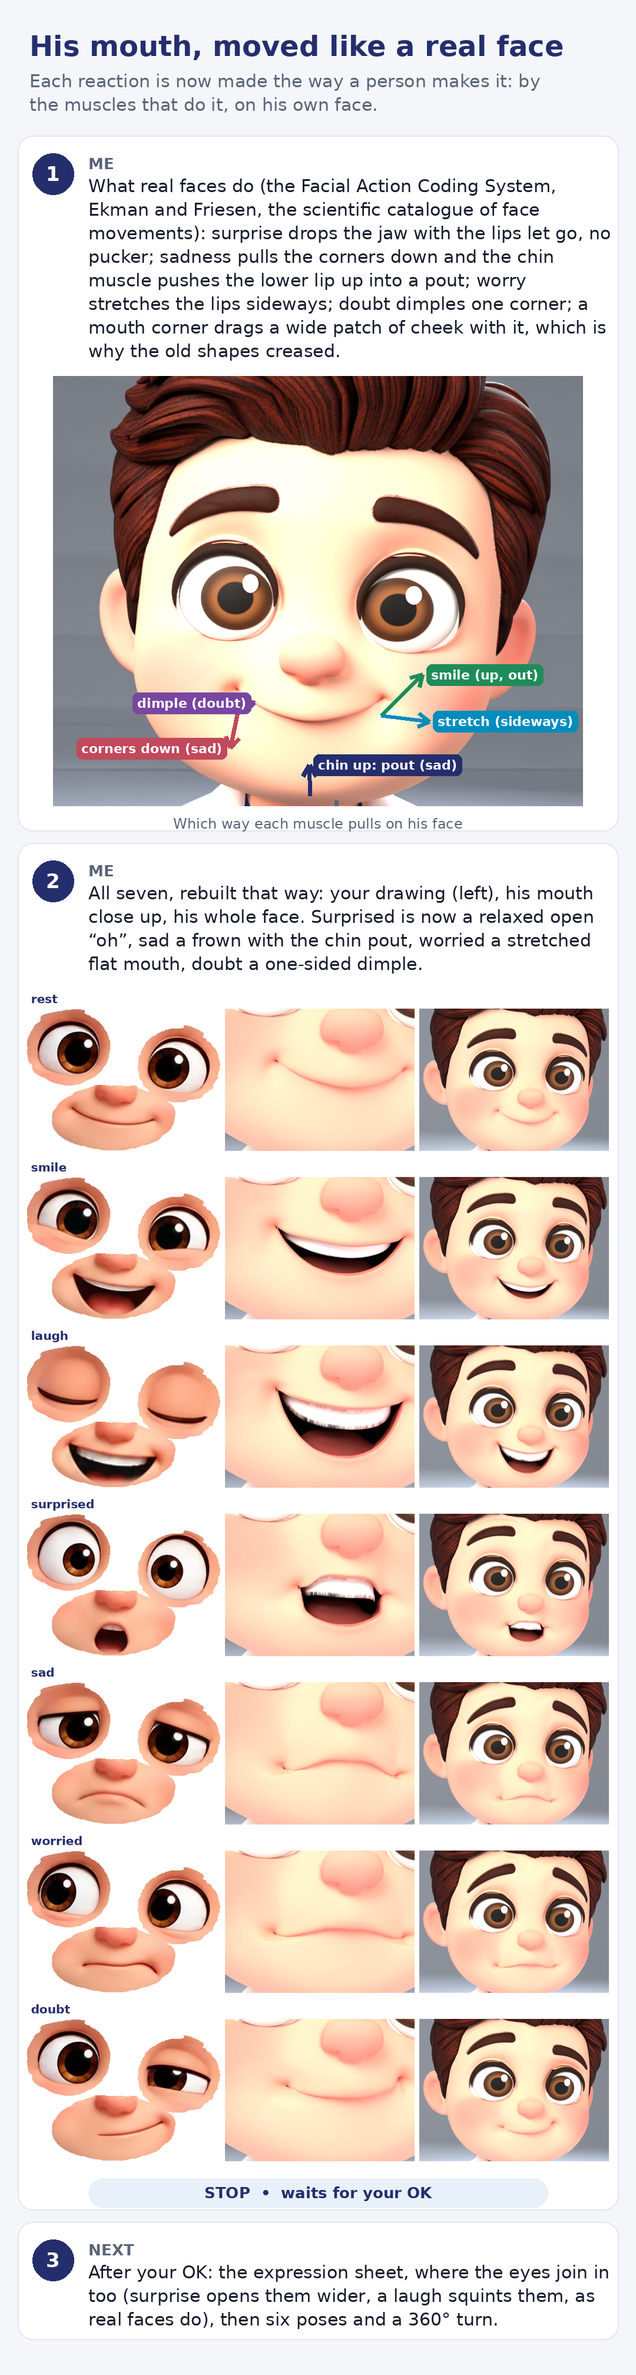
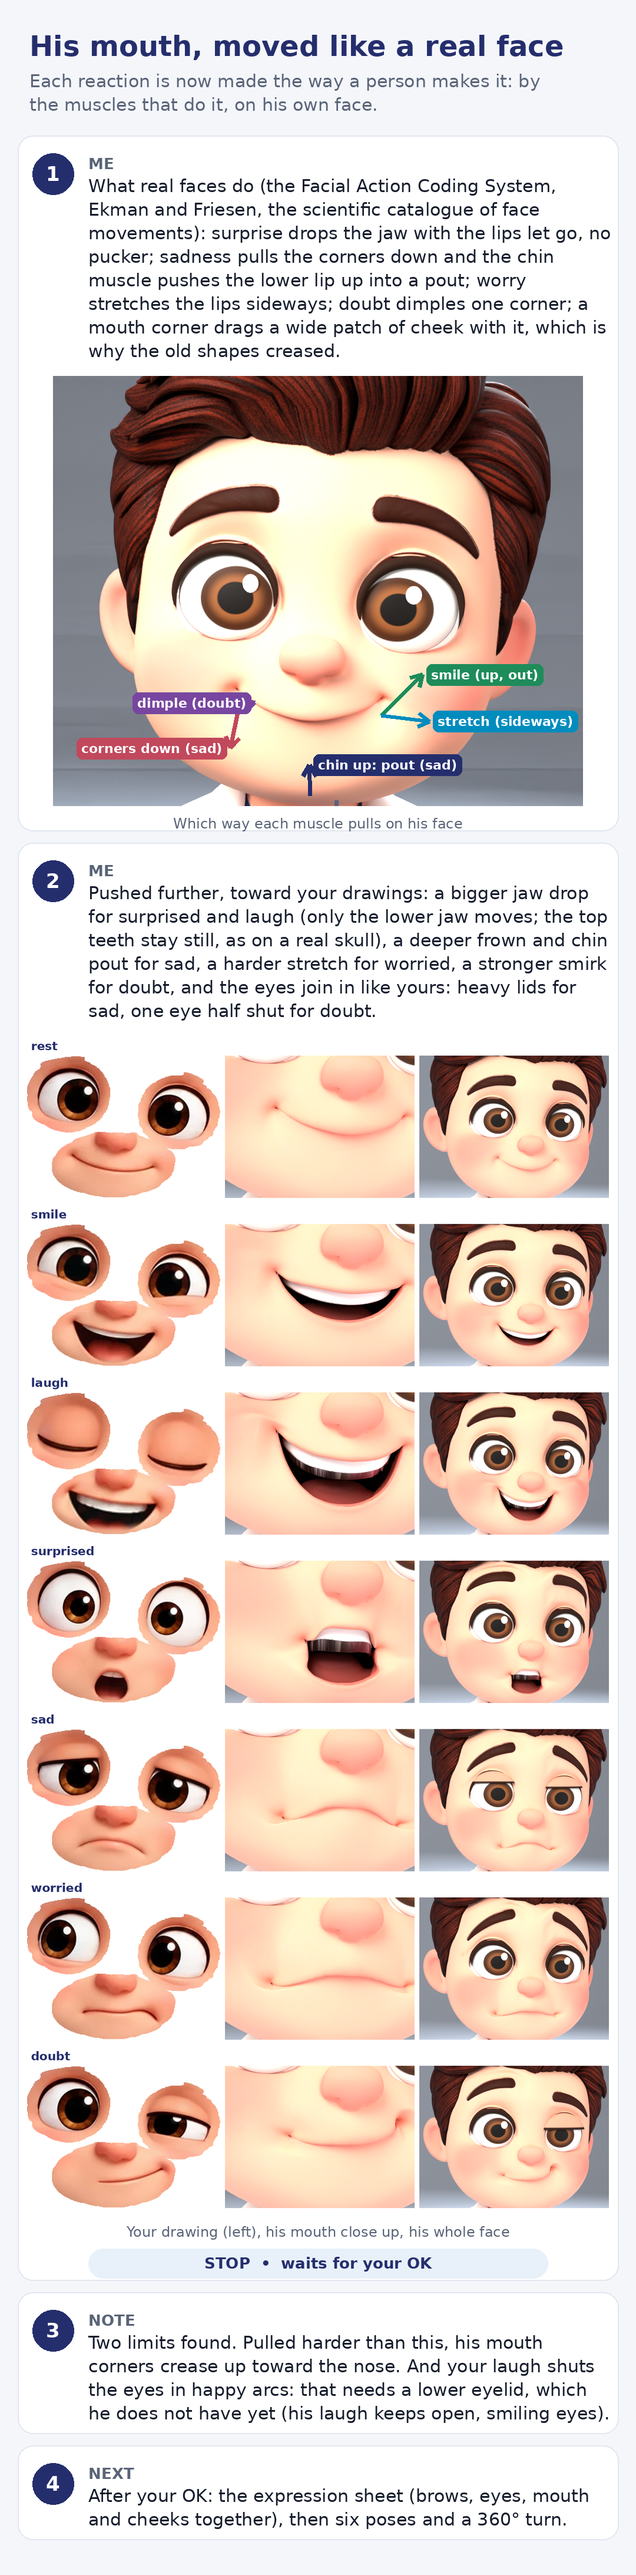
3D Dr. Smiley: mouths pushed further, eyes joining in
Stronger recipes toward Jose's drawings: a bigger lower-jaw drop with the
upper lip and top teeth still, deeper frown and chin pout, harder stretch,
stronger smirk; heavy lids for sad and one half-shut eye for doubt. The top
teeth no longer streak when the jaw opens. out/plan-mouths.png, waiting on
Jose's OK. Docs only, no app change, so no User Guide change.

Claude-Session: https://claude.ai/code/session_011askx983Tm1ZdoDUiZZ1Y5

diff --git a/docs/mockups/smiley-3d/tripo_mouths.py b/docs/mockups/smiley-3d/tripo_mouths.py
@@ -23,18 +23,23 @@ TMP = os.path.join(HERE, 'in', 'faceplan')
 # his left brow, your right, goes a fifth further: DR_BROW_SIDE)
 MOUTHS = {
     'rest':      dict(close=1),
-    'smile':     dict(close=0, cheek=(.6, .6), brow=((2, 0), (2.4, 0))),
-    'laugh':     dict(close=0, mouth={'JawOpen': 1, 'CornerUp.L': .6, 'CornerUp.R': .6}, cheek=(1, 1), brow=((2.8, 0), (3.4, 0))),
+    'smile':     dict(close=0, cheek=(1, 1), brow=((2, 0), (2.4, 0))),
+    # pushed toward the size of his drawings (Jose: "push them further"), the
+    # muscles past their natural strength the way a cartoon exaggerates
+    'laugh':     dict(close=0, mouth={'JawOpen': 1.2, 'CornerUp.L': 1, 'CornerUp.R': 1}, cheek=(1.6, 1.6),
+                      brow=((2.8, 0), (3.4, 0))),   # his drawn laugh shuts the eyes in happy arcs: needs a lower lid (not built)
     # after the muscles (tripo_muscles.py, Jose 2026-10-22: "how a normal person makes
     # mouth reactions"): surprise is the jaw dropping with the lips let go (AU 26), not a
     # pucker; sadness pulls the corners down (15) and the chin up into a pout (17);
     # worry stretches the lips sideways (20); doubt dimples one corner (14)
-    'surprised': dict(close=0, mouth={'AU.SmileOffOpen.L': 1, 'AU.SmileOffOpen.R': 1, 'JawOpen': 1}, brow=((4.2, 0), (5, 0))),
-    'sad':       dict(close=1, mouth={'AU.Relax.L': 1, 'AU.Relax.R': 1, 'AU.CornerDepress.L': 1, 'AU.CornerDepress.R': 1,
-                                      'AU.ChinRaise': 1}, brow=((1, 11), (1.2, 13))),
-    'worried':   dict(close=1, mouth={'AU.Relax.L': 1, 'AU.Relax.R': 1, 'AU.LipStretch.L': 1, 'AU.LipStretch.R': 1,
-                                      'AU.CornerDepress.L': .5, 'AU.CornerDepress.R': .7}, brow=((1.4, 15), (1.7, 18))),
-    'doubt':     dict(close=1, mouth={'AU.Relax.R': 1, 'AU.Dimple.L': 1}, brow=((3, 4), (-1.2, 2.4))),
+    'surprised': dict(close=0, mouth={'AU.SmileOffOpen.L': 1.3, 'AU.SmileOffOpen.R': 1.3, 'JawOpen': 2},
+                      brow=((5, 0), (6, 0))),
+    'sad':       dict(close=1, mouth={'AU.Relax.L': 1, 'AU.Relax.R': 1, 'AU.CornerDepress.L': 1.15, 'AU.CornerDepress.R': 1.15,
+                                      'AU.ChinRaise': 1.6}, brow=((1.2, 15), (1.4, 18)), lid=(.32, .32)),   # heavy lids, as drawn
+    'worried':   dict(close=1, mouth={'AU.Relax.L': 1, 'AU.Relax.R': 1, 'AU.LipStretch.L': 1.25, 'AU.LipStretch.R': 1.25,
+                                      'AU.CornerDepress.L': .6, 'AU.CornerDepress.R': .85}, brow=((1.6, 18), (2, 21))),
+    'doubt':     dict(close=1, mouth={'AU.Relax.R': 1.2, 'AU.Dimple.L': 1.6, 'CornerUp.L': .6}, lid=(0, .42),   # one eye half shut, as drawn
+                  brow=((3.6, 5), (-1.4, 3))),
 }
 DRAWN = ['rest', 'blink1', 'blink2', 'shut', 'wink1', 'wink2', 'wink', 'smile1', 'smile2', 'smile', 'laugh1', 'laugh2', 'laugh',
          'laughB', 'lookL', 'lookR', 'love', 'sleep', 'halfL', 'halfR', 'lookU', 'lookD', 'lookUL', 'lookUR', 'lookDL', 'lookDR',
@@ -189,7 +194,9 @@ if __name__ == '__main__':
     op = np.load(os.path.join(HERE, 'in', 'mouth-opening.npz'))
     X, ZU, ZL, CX = op['X'], op['ZU'], op['ZL'], float(op['CX'])
     teeth = teeth_vertices(ob)
-    add_key(ob, 'Mouth.JawOpen', close_mouth(co0, X, ZU, ZL, -.6, teeth))
+    # only the lower jaw drops: the upper lip and top teeth stay with the skull (a rising
+    # upper lip dragged the teeth and streaked them)
+    add_key(ob, 'Mouth.JawOpen', close_mouth(co0, X, ZU, ZL, -.55, teeth, upper=0))
     for s in (L, R):
         # down past his smile's upward curve (~8 mm), or a frown reads as neutral
         add_key(ob, f'Mouth.CornerDown.{s}', corner(co0, X, ZU, ZL, s, -.013, front))

diff --git a/docs/mockups/smiley-3d/tripo_mouthtest.py b/docs/mockups/smiley-3d/tripo_mouthtest.py
@@ -63,7 +63,7 @@ def opening(ob, cx):
     return np.array(xs), np.array(zu), np.array(zl)
 
 
-def close_mouth(co0, X, ZU, ZL, close, teeth):
+def close_mouth(co0, X, ZU, ZL, close, teeth, upper=None):
     co = co0.copy()
     x, y, z = co0[:, 0], co0[:, 1], co0[:, 2]
     x0, x1 = X.min(), X.max()
@@ -73,9 +73,10 @@ def close_mouth(co0, X, ZU, ZL, close, teeth):
     zu, zl = np.interp(xi, X, ZU), np.interp(xi, X, ZL)
     h = zu - zl
     taper = 1 - smooth(np.maximum(x0 - xi, xi - x1) / .012)          # past the corners the move fades out
-    zc = zu - UPPER * h                                              # where the lips meet
+    upper = UPPER if upper is None else upper                       # the upper lip's share (opening wider: ~0, only the jaw moves)
+    zc = zu - upper * h                                              # where the lips meet
     tuck = smooth(h / .006)                     # fades in from the corners (a step there creased them)
-    up_by = (UPPER * h + OVERLAP * tuck) * taper * close
+    up_by = (upper * h + OVERLAP * tuck) * taper * close
     lo_by = ((1 - UPPER) * h + OVER_LO * tuck) * taper * close
     w_up = 1 - smooth((zi - zu) / .010)          # the upper lip, fading out 10 mm above the opening
     w_lo = 1 - smooth((zl - zi) / .045)          # the lower lip and chin: the jaw, fading out 45 mm below
@@ -105,6 +106,8 @@ def close_mouth(co0, X, ZU, ZL, close, teeth):
     t = teeth[i] & (xi > x0 - .004) & (xi < x1 + .004)
     nz[t] = zi[t] + (zu[t] + .008 - zi[t]) * .6 * late
     ny[t] = yi[t] + .015 * late
+    if close < 0:          # the jaw opening wider: the top teeth stay still with the skull (squeezed with the inside they streaked)
+        nz[t] = zi[t]
     co[i, 1], co[i, 2] = ny, nz
     return co
 
@@ -115,9 +118,13 @@ def teeth_vertices(ob):
     img, px = T.texture(ob)
     cen, tuv = T.face_arrays(ob)
     col = T.sample(px, tuv.mean(1)) * 255
-    f = (col.min(1) > 225) & (cen[:, 1] < -.1) & (np.abs(cen[:, 2] - .675) < .03)
+    # white, or the grey shading along their edges (light and not pink): pure white
+    # alone left the bottom rim behind, and it streaked when the jaw opened
+    f = ((col.min(1) > 225) | ((col.min(1) > 160) & (np.ptp(col, 1) < 45))) & (cen[:, 1] < -.1) & (np.abs(cen[:, 2] - .675) < .03)
     lv = np.empty(len(ob.data.loops), dtype=np.int64); ob.data.loops.foreach_get('vertex_index', lv)
-    m = np.zeros(len(ob.data.vertices), bool); m[lv.reshape(-1, 3)[f].ravel()] = True
+    tri = lv.reshape(-1, 3)
+    m = np.zeros(len(ob.data.vertices), bool); m[tri[f].ravel()] = True
+    m[tri[m[tri].any(1)].ravel()] = True          # and one ring round them
     return m
 
 

diff --git a/docs/mockups/smiley-3d/tripo_mouthboard.py b/docs/mockups/smiley-3d/tripo_mouthboard.py
@@ -13,9 +13,13 @@ board('His mouth, moved like a real face', ['Each reaction is now made the way a
      'movements): surprise drops the jaw with the lips let go, no pucker; sadness pulls the corners down and the chin muscle '
      'pushes the lower lip up into a pout; worry stretches the lips sideways; doubt dimples one corner; a mouth corner drags a '
      'wide patch of cheek with it, which is why the old shapes creased.', [diagram], 'Which way each muscle pulls on his face', False),
-    ('2', 'ME', 'All seven, rebuilt that way: your drawing (left), his mouth close up, his whole face. Surprised is now a '
-     'relaxed open \u201coh\u201d, sad a frown with the chin pout, worried a stretched flat mouth, doubt a one-sided dimple.',
-     [rows([0, 1, 2, 3, 4, 5, 6])], '', True),
-    ('3', 'NEXT', 'After your OK: the expression sheet, where the eyes join in too (surprise opens them wider, a laugh '
-     'squints them, as real faces do), then six poses and a 360\u00b0 turn.', [], '', False),
+    ('2', 'ME', 'Pushed further, toward your drawings: a bigger jaw drop for surprised and laugh (only the lower jaw '
+     'moves; the top teeth stay still, as on a real skull), a deeper frown and chin pout for sad, a harder stretch for '
+     'worried, a stronger smirk for doubt, and the eyes join in like yours: heavy lids for sad, one eye half shut for doubt.',
+     [rows([0, 1, 2, 3, 4, 5, 6])], 'Your drawing (left), his mouth close up, his whole face', True),
+    ('3', 'NOTE', 'Two limits found. Pulled harder than this, his mouth corners crease up toward the nose. And your laugh '
+     'shuts the eyes in happy arcs: that needs a lower eyelid, which he does not have yet (his laugh keeps open, smiling eyes).',
+     [], '', False),
+    ('4', 'NEXT', 'After your OK: the expression sheet (brows, eyes, mouth and cheeks together), then six poses and a '
+     '360\u00b0 turn.', [], '', False),
 ], 'plan-mouths.png')

diff --git a/docs/mockups/smiley-3d/tripo_muscles.py b/docs/mockups/smiley-3d/tripo_muscles.py
@@ -38,6 +38,25 @@ def side_fade(x, y, xm):
     return (1 - smooth((np.abs(x - xm) - .085) / .03)) * (1 - smooth((y + .06) / .015))
 
 
+def corner_soften(co0, X, ZU, ZL, side, r0=.007, ring=.016):
+    """His smile's dimple at one mouth corner filled in: the pit pressed out to
+    the skin round it. When the smile lets go a real corner's pit softens;
+    pulled down hard, his sculpted pit tore into a V notch."""
+    from tripo_faceplan import fit_surface
+    i = 0 if side == R else -1
+    cx, cz = X[i], (ZU[i] + ZL[i]) / 2
+    x, y, z = co0.T
+    r = np.hypot(x - cx, z - cz)
+    near = (r < ring + .004) & (y < -.08)
+    ringm = near & (r > r0 + .002) & (r < ring)
+    S = fit_surface(co0[ringm][:, [0, 2]], y[ringm])
+    w = (1 - smooth((r - r0) / (ring - r0))) * near
+    target = S(x[near], z[near])
+    co = co0.copy()
+    co[near, 1] = y[near] + (np.minimum(target, y[near]) - y[near]) * w[near]    # only ever outward, to the skin
+    return co
+
+
 def corner_pull(co0, X, ZU, ZL, side, d, rx=.05, rz=.04, below=None, keep_middle=True):
     """One mouth corner moved by d (dx outward, dy forward, dz up), the skin
     round it following over an ellipse rx by rz (below: a different reach
@@ -128,6 +147,8 @@ if __name__ == '__main__':
         add_key(ob, f'AU.LipStretch.{s}', corner_pull(co0, X, ZU, ZL, s, (.008, -.002, -.002), rx=.045, rz=.03))
         add_key(ob, f'AU.Dimple.{s}', corner_pull(co0, X, ZU, ZL, s, (-.003, -.004, .001), rx=.016, rz=.014))
     add_key(ob, 'AU.ChinRaise', chin_raise(co0, X, ZU, ZL))
+    for s in (L, R):
+        add_key(ob, f'AU.CornerSoften.{s}', corner_soften(co0, X, ZU, ZL, s))
     # with the lips closed, letting go of the smile moves the line where they meet,
     # both lips following it (fit_line): pulling closed lips sideways by the corners
     # pushed a bump of lower lip up over the line near each corner

diff --git a/docs/mockups/smiley-3d/tripo_face.py b/docs/mockups/smiley-3d/tripo_face.py
@@ -60,13 +60,16 @@ def add_key(ob, name, co):
     return kb
 
 
-def set_face(ob=None, brow=None, cheek=(0, 0), close=0, mouth=None, lids=True):
+def set_face(ob=None, brow=None, cheek=(0, 0), close=0, mouth=None, lids=True, lid=None):
     """brow: per side (his right, his left) a (lift, tilt) in the app's units
     (DR_BROWS: lift up positive, tilt positive = inner end up); cheek: per side
-    0..1; close: 0 (his sculpted smile) .. 1 (closed); mouth: {shape: 0..1}."""
+    0..1; close: 0 (his sculpted smile) .. 1 (closed); mouth: {shape: 0..2} (past
+    1 for cartoon-strong, Jose 2026-10-22: "push them further"); lid: per side
+    0 (open) .. 1 (shut), overriding the lid that follows a lowered brow."""
     ob = ob or bpy.data.objects['Mesh_0']
     kb = ob.data.shape_keys.key_blocks
     for k in kb[1:]:
+        k.slider_max = 2
         k.value = 0
     lid_down = [0, 0]
     for i, s in enumerate((R, L)):
@@ -88,7 +91,7 @@ def set_face(ob=None, brow=None, cheek=(0, 0), close=0, mouth=None, lids=True):
     if lids:
         from tripo_eyes import set_blink
         for i, s in enumerate((R, L)):
-            set_blink(bpy.data.objects['Lid.' + s], lid_down[i])
+            set_blink(bpy.data.objects['Lid.' + s], lid[i] if lid else lid_down[i])
 
 
 if __name__ == '__main__':

diff --git a/docs/handoff.md b/docs/handoff.md
@@ -95,6 +95,12 @@ worried (flat, not a frown).
    move must carry the cheek (~4-5 cm); fade by distance to the side, not
    by depth (the mouth is deep at its corners); move closed lips sideways
    only through their meeting line (`fit_line`), never by pulling corners.
+   Then Jose: "push them further". Recipes in `MOUTHS` go past 1 (sliders
+   to 2), `set_face(lid=...)` sets lids per expression (sad heavy, doubt one
+   half shut), `JawOpen` moves only the lower jaw (`close_mouth(upper=0)`),
+   the top teeth stay still when it opens (teeth = white or light grey, plus
+   one ring). Limits: harder corner pulls crease toward the nose; the drawn
+   laugh's shut happy-arc eyes need a lower lid (not built).
 2. Then the expression sheet (brows + eyes + mouth + cheeks), six poses,
    a 360-degree turn: stop for his OK.
 3. Then the animation (R2), as a visual plan first.
